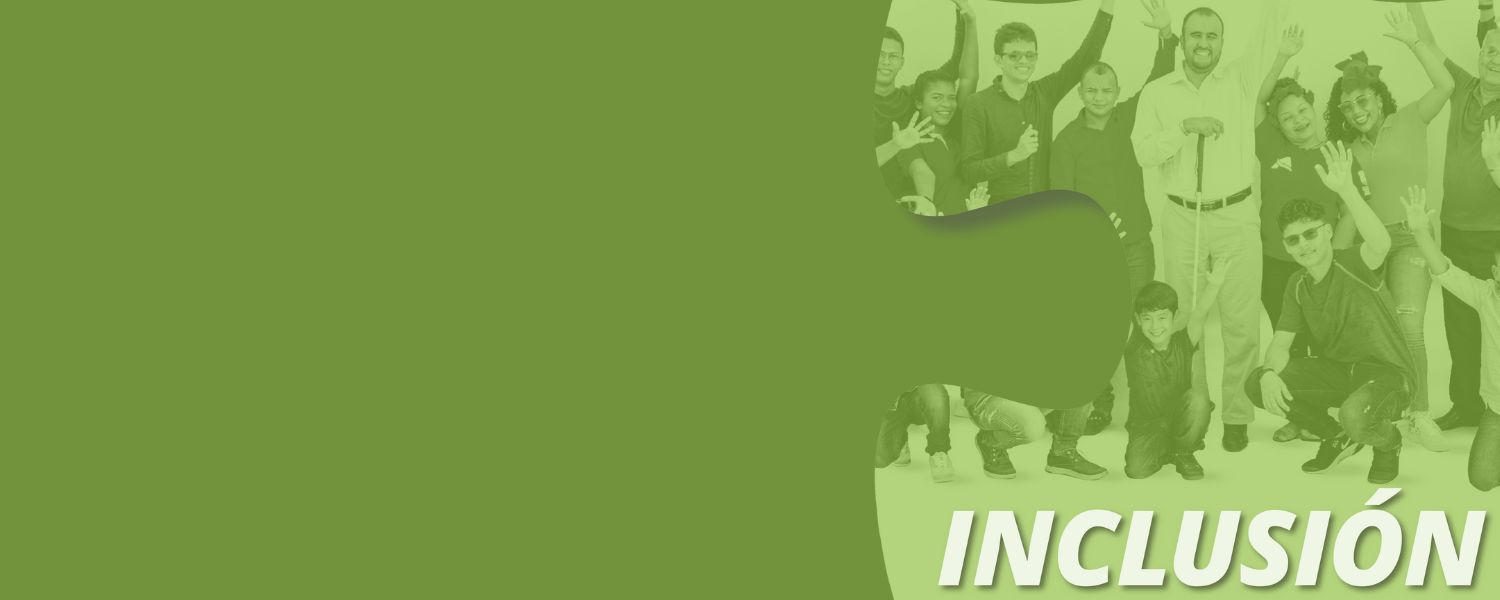
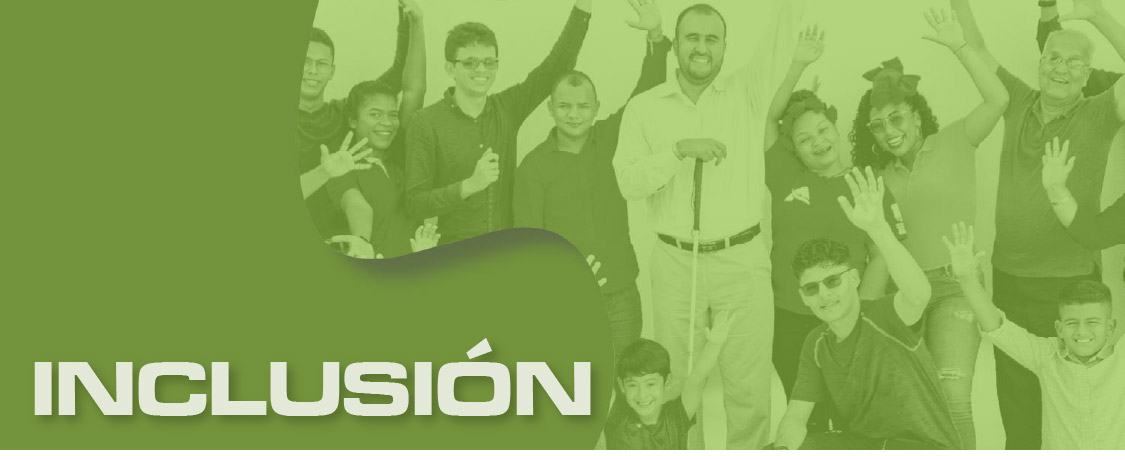
Cambios
Se mejoró la estructura responsive y web del comportamiento de las fichas

diff --git a/public/css/index.css b/public/css/index.css
@@ -88,21 +88,23 @@
 }
 
 /* ===============================
-   FLIP CARDS
+   FLIP CARDS - WEB HORIZONTAL + RESPONSIVE
 ================================= */
 .cards-container {
   display: flex;
-  flex-wrap: wrap;
+  flex-wrap: wrap;           /* por defecto permite wrap en móvil */
   justify-content: center;
   gap: 25px;
   padding: 10px 0;
   width: 100%;
 }
 
+
+/* Flip card general */
 .flip-card {
   background: transparent;
   perspective: 1000px;
-  width: 240px;
+  width: 240px;              /* tamaño estándar para pantallas medianas */
   height: 320px;
   flex: 0 1 240px;
 }
@@ -134,7 +136,6 @@
   width: 100%;
   height: 100%;
   object-fit: contain;
-  background-color: transparent;
   border-radius: 15px;
 }
 
@@ -151,9 +152,7 @@
   letter-spacing: 0.5px;
 }
 
-/* ===============================
-   REVERSO CON FONDO BORROSO
-================================= */
+/* Reverso */
 .flip-card-back {
   position: absolute;
   inset: 0;
@@ -165,12 +164,21 @@
   box-sizing: border-box;
   display: flex;
   flex-direction: column;
-  justify-content: space-between;
+  justify-content: flex-start;
   align-items: center;
-  overflow: hidden;
+  overflow: hidden; /* evita scroll visual */
 }
 
-/* Fondo borroso con la misma imagen */
+.flip-card-back > div {
+  flex: 1;                 /* ocupa todo el espacio posible */
+  overflow-y: auto;         /* permite scroll vertical si es necesario */
+  -webkit-overflow-scrolling: touch; /* scroll suave en móvil */
+  scrollbar-width: none;    /* Firefox: oculta scrollbar */
+  -ms-overflow-style: none; /* IE 10+ */
+  margin-bottom: 10px;      /* espacio antes del botón */
+}
+
+/* Fondo borroso igual al frontal */
 .flip-card-back::before {
   content: "";
   position: absolute;
@@ -180,11 +188,11 @@
   background-position: center;
   background-repeat: no-repeat;
   filter: blur(6px) brightness(0.8);
-  transform: scale(1.1);
+  transform: none; /* mismo tamaño que el frontal */
   z-index: 0;
 }
 
-/* Capa oscura sobre el blur */
+/* Capa oscura */
 .flip-card-back::after {
   content: "";
   position: absolute;
@@ -194,10 +202,11 @@
   z-index: 1;
 }
 
-.flip-card-back>* {
+.flip-card-back > * {
   position: relative;
   z-index: 2;
 }
+
 
 /* ===============================
    BUTTONS
@@ -207,6 +216,29 @@
   color: #003366;
   transition: all 0.3s ease-in-out;
 }
+
+/* Botón dentro del flip card back */
+.flip-card-back .btn {
+  flex-shrink: 0; /* no se comprima */
+  position: relative;
+  z-index: 3;
+  background-color: rgba(255, 255, 255, 0.85);
+  color: #003366;
+  border: 1px solid #fff;
+  padding: 5px 12px;
+  font-size: 0.85rem;
+  border-radius: 5px;
+  text-decoration: none;
+  transition: all 0.3s ease-in-out;
+}
+
+/* Hover del botón */
+.flip-card-back .btn:hover {
+  background-color: white;
+  color: #003366;
+  transform: scale(1.05);
+}
+
 
 /* ===============================
    ACTIVIDADES SECTION
@@ -229,6 +261,20 @@
 /* ===============================
    RESPONSIVE
 ================================= */
+
+/* En pantallas grandes: 5 cards en fila, sin wrap */
+@media (min-width: 1200px) {
+  .cards-container {
+    flex-wrap: nowrap;       /* fila única */
+  }
+
+  .flip-card {
+    width: 200px;            /* tamaño más compacto para que quepan 5 */
+    height: 280px;
+    flex: 0 1 200px;
+  }
+}
+
 @media (max-width: 992px) {
   .hero {
     margin-top: 80px;
